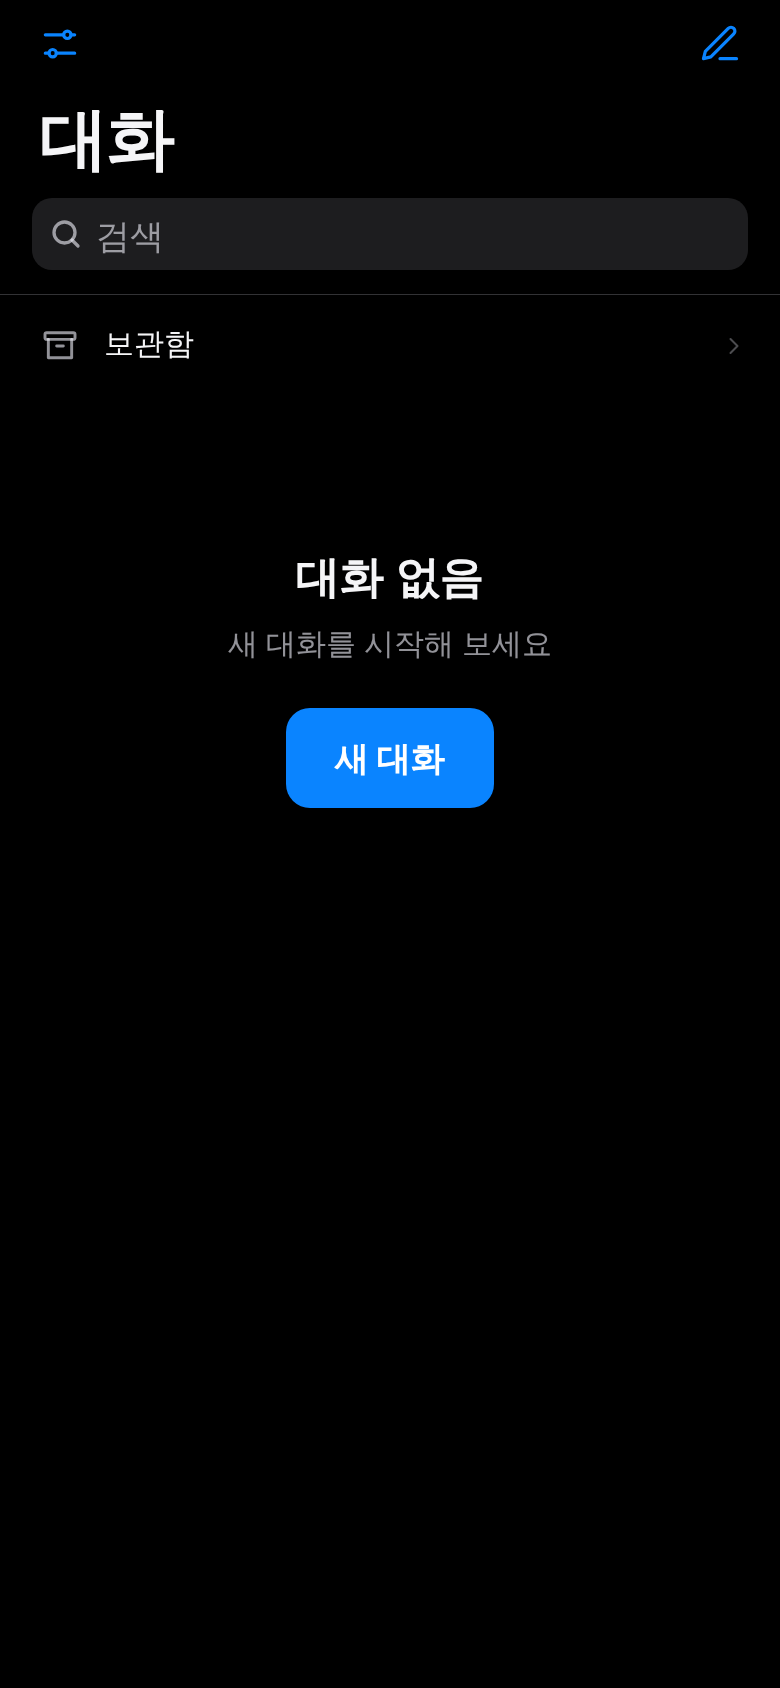
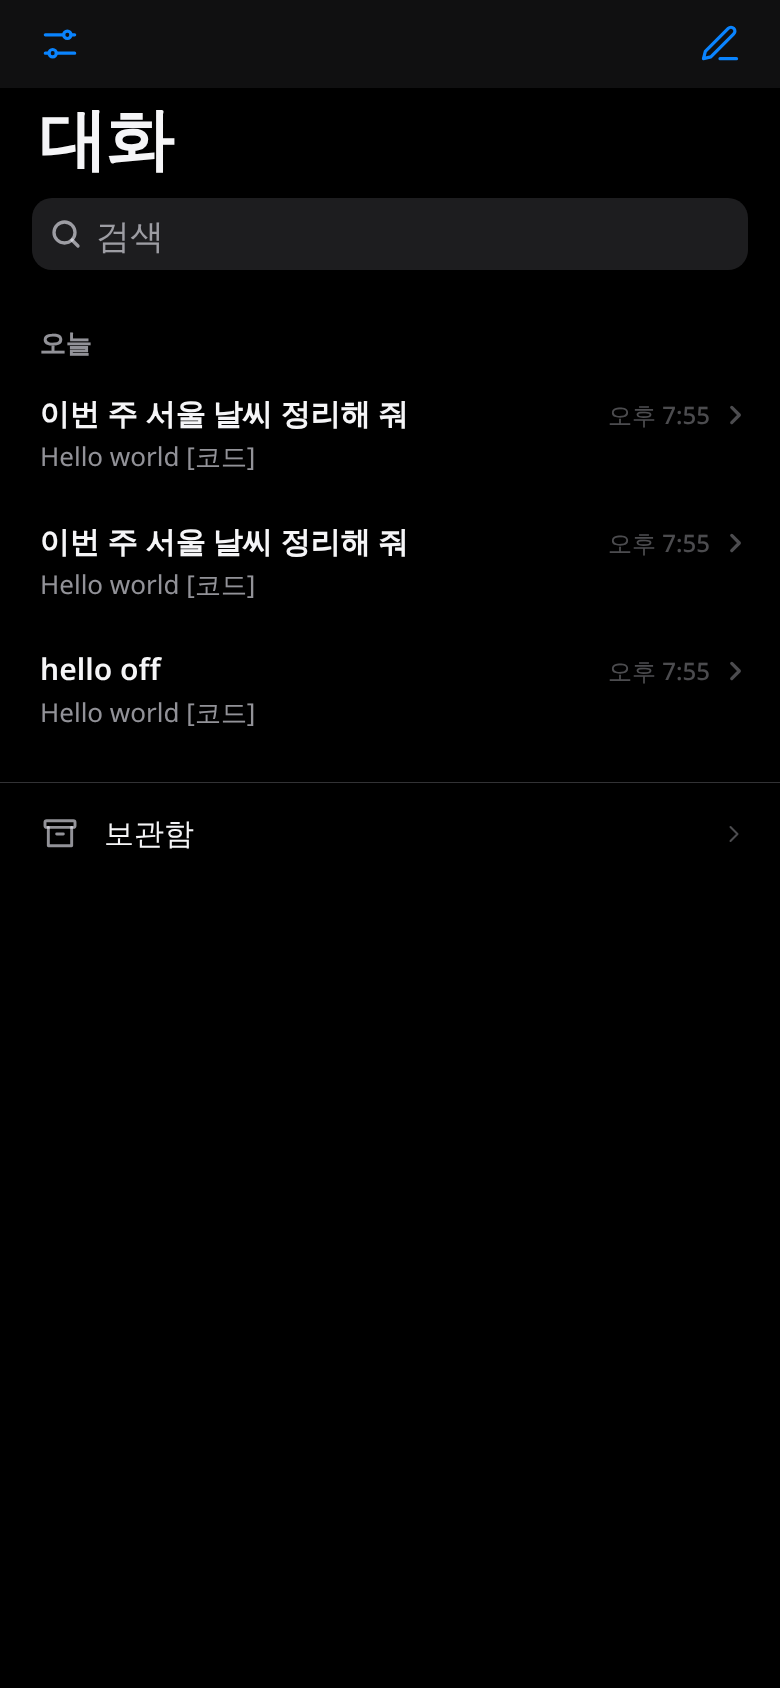
1.4.0: refresh_p1 tests, crisp header metrics, transform-only mig track, review shots

diff --git a/styles.css b/styles.css
@@ -511,7 +511,7 @@ li.skel i+i{width:85%;margin-top:8px;height:12px}
 .mig-note{font-size:12px;color:var(--label-3);margin:8px 0 0}
 .mig-ring{width:48px;height:48px;transform:rotate(-90deg);margin:8px auto;display:block}
 .mig-ring circle{fill:none;stroke-width:4}.mig-ring .trk{stroke:var(--fill)}.mig-ring .val{stroke:var(--accent);stroke-dasharray:138;stroke-dashoffset:138;transition:stroke-dashoffset 300ms var(--ease-out);stroke-linecap:round}
-.mig-track{height:3px;border-radius:2px;background:var(--fill);overflow:hidden;margin:4px 0 12px}.mig-track i{display:block;height:100%;width:0;background:var(--accent);transition:width 300ms}
+.mig-track{height:3px;border-radius:2px;background:var(--fill);overflow:hidden;margin:4px 0 12px}.mig-track i{display:block;height:100%;width:100%;transform:scaleX(0);transform-origin:left;background:var(--accent);transition:transform 300ms var(--ease-standard)}
 .mig-fails{list-style:none;padding:0;margin:8px 0;text-align:left}.mig-fails li{padding:6px 0;font-size:15px}.mig-fails small{display:block;font-size:13px;color:var(--label-2)}
 .ctx-title{padding:12px 16px;font-size:13px;color:var(--label-2);text-align:center}
 #titleWrap{cursor:pointer}
@@ -770,8 +770,8 @@ body{word-break:keep-all}
 @media (prefers-color-scheme:light){.codeblock{background:var(--code-bg)}}
 .actions .icon,.actions button{color:var(--label-3)}
 /* navigation: headline + caption subtitle */
-#title{font:var(--t-headline);letter-spacing:-.2px}
-#modelName{font:var(--t-caption);letter-spacing:.2px;color:var(--label-3)}
+#title{font-size:17px;line-height:22px;letter-spacing:-.2px}
+#modelName{font-size:12px;line-height:14px;font-weight:500;letter-spacing:.2px;margin-top:0}
 #topbar,.navbar{box-shadow:none}
 #topbar::after,.navbar::after{background:var(--hair-strong)}
 .large-title{font:var(--t-large);letter-spacing:-.4px}

diff --git a/tests/refresh_p1.py b/tests/refresh_p1.py
@@ -1,0 +1,56 @@
+# 1.4.0 P1 visual refresh (design a1975717 REFRESH-SPEC §1)
+import os, re
+from playwright.sync_api import sync_playwright
+B = 'http://127.0.0.1:' + os.environ.get('EVE_PORT', '8765')
+R = []
+def check(name, ok, extra=''): R.append(bool(ok)); print(('PASS' if ok else 'FAIL'), name, extra)
+css = open(os.path.join(os.path.dirname(__file__), '..', 'styles.css')).read()
+check('no transition on layout/paint props (box-shadow, filter, radius, height…)', not re.search(r'transition:[^;}]*\b(box-shadow|filter|backdrop-filter|border-radius|height|width|padding|margin)\b', css))
+check('no transition:all', not re.search(r'transition:\s*all', css))
+errs = []
+with sync_playwright() as p:
+    b = p.chromium.launch()
+    for scheme in ['dark', 'light']:
+        ctx = b.new_context(viewport={'width': 390, 'height': 844}, color_scheme=scheme); pg = ctx.new_page(); pg.on('pageerror', lambda e: errs.append(str(e)))
+        pg.add_init_script("localStorage.setItem('eve.mem.introSeen','1');localStorage.setItem('llmchat.settings',JSON.stringify({base:'',model:'mlx-community/Qwen3-30B-A3B-4bit'}))")
+        pg.goto(B + '/ui/#/'); pg.wait_for_timeout(1200); pg.click('#newChat'); pg.wait_for_timeout(800)
+        if scheme == 'dark':
+            check('version 1.4.0', pg.evaluate('__app.version') == '1.4.0')
+            t = pg.evaluate("""(()=>{const r=getComputedStyle(document.documentElement),g=n=>r.getPropertyValue(n).trim();
+              return [g('--r-xs'),g('--r-sm'),g('--r-md'),g('--r-lg'),g('--r-xl'),g('--layer-1'),g('--layer-2'),g('--hair'),g('--hair-strong'),g('--s1'),g('--s2')]})()""")
+            check('radii 6/10/16/20/26 + two layers + hairlines + 4/8 spacing', t[:5] == ['6px','10px','16px','20px','26px'] and t[5].upper() == '#1C1C1E' and t[6].upper() == '#2C2C2E' and t[7] and t[8] and t[9:] == ['4px','8px'], t)
+        e = pg.evaluate("""(()=>{const q=s=>document.querySelector(s),cs=(s,p)=>getComputedStyle(q(s),p);
+          return {h1:q('.empty h1')?.textContent, sub:q('.empty>small')?.textContent, tile:!!q('.empty .mark-tile .mark'), tileShadow:cs('.empty .mark-tile').boxShadow,
+            nav:q('#modelName').textContent, glow:cs('#messages','::before').backgroundImage, chipIc:cs('.chip .chip-ic').color, chipShadow:cs('.chip').boxShadow,
+            chipBorder:cs('.chip').borderTopWidth}})()""")
+        check(f'[{scheme}] empty: mark tile, 무엇을 도와드릴까요?, 로컬 · 비공개', e['tile'] and e['h1'] == '무엇을 도와드릴까요?' and e['sub'] == '로컬 · 비공개', e)
+        check(f'[{scheme}] no model name in nav subtitle or empty state', e['nav'] == '로컬 · 비공개' and 'Qwen' not in pg.inner_text('#chatView'), e['nav'])
+        if scheme == 'dark':
+            check('emerald glow (dark) + tile glow', 'radial-gradient' in e['glow'] and 'rgba(0, 210, 190' in e['glow'] and 'rgba(0, 210, 190' in e['tileShadow'], e['glow'])
+            check('chip icons emerald (Eve only)', e['chipIc'] == 'rgb(0, 210, 190)', e['chipIc'])
+        check(f'[{scheme}] chips: 0.5px inset hairline, no border', 'inset' in e['chipShadow'] and '0.5px' in e['chipShadow'] and e['chipBorder'] == '0px', e['chipShadow'])
+        c = pg.evaluate("""(()=>{const f=document.querySelector('.field'),i=document.getElementById('input'),s=document.getElementById('sendBtn');i.focus();
+          const fc=getComputedStyle(f),ic=getComputedStyle(i),a=getComputedStyle(f,'::after');
+          return {radius:fc.borderTopLeftRadius,shadow:fc.boxShadow,outline:ic.outlineStyle,ring:a.boxShadow,send:getComputedStyle(s,'::after').opacity,dis:s.disabled,sw:s.getBoundingClientRect().width,hit:s.getBoundingClientRect().width-2*parseFloat(getComputedStyle(s,'::before').left)}})()""")
+        check(f'[{scheme}] floating capsule composer r26 + hairline + float shadow', c['radius'] == '26px' and 'inset' in c['shadow'] and '24px' in c['shadow'], c)
+        check(f'[{scheme}] no focus ring (no outline, no blue ring)', c['outline'] == 'none' and '10, 132, 255' not in c['ring'] and '0, 122, 255' not in c['ring'], c)
+        check(f'[{scheme}] send not blue when empty', c['dis'] and c['send'] == '0', c)
+        check(f'[{scheme}] send 36px with >=44pt hit area', c['sw'] == 36 and c['hit'] >= 44, c)
+        pg.fill('#input', '안녕하세요'); pg.wait_for_timeout(300)
+        s2 = pg.evaluate("(()=>{const s=document.getElementById('sendBtn');return [s.disabled,getComputedStyle(s,'::after').opacity,getComputedStyle(s,'::after').backgroundColor]})()")
+        check(f'[{scheme}] send blue only with input', s2[0] is False and s2[1] == '1' and s2[2] in ('rgb(10, 132, 255)', 'rgb(0, 122, 255)'), s2)
+        pg.click('#sendBtn'); pg.wait_for_timeout(3000)
+        m = pg.evaluate("""(()=>{const a=getComputedStyle(document.querySelector('.msg.assistant .bubble')),u=getComputedStyle(document.querySelector('.msg.user .bubble'));
+          return {af:a.fontSize,al:a.lineHeight,uf:u.fontSize,ul:u.lineHeight,ur:[u.borderTopLeftRadius,u.borderBottomRightRadius],ubg:u.backgroundColor}})()""")
+        check(f'[{scheme}] answers 16/24, bubbles 16/22, bubble radius 20 with 6 tail', m['af'] == '16px' and m['al'] == '24px' and m['uf'] == '16px' and m['ul'] == '22px' and m['ur'] == ['20px', '6px'], m)
+        hd = pg.evaluate("[...document.querySelectorAll('.navbar,#topbar')].map(n=>getComputedStyle(n).backdropFilter||'none')")
+        check(f'[{scheme}] headers keep 1.3.2 (no backdrop-filter)', all(x == 'none' for x in hd), hd)
+        tt = pg.evaluate("[...document.querySelectorAll('#chatView .navbar button,#chatView .navbar .icon,#webBtn')].filter(e=>e.offsetParent).map(e=>{const r=e.getBoundingClientRect(),b=getComputedStyle(e,'::before');const ex=b.content!=='none'&&b.position==='absolute'?-2*parseFloat(b.left||0):0;return [e.id||e.className,Math.round(r.width+ex),Math.round(r.height+ex)]})")
+        check(f'[{scheme}] tap targets >= 44', all(w >= 44 and h >= 44 for _, w, h in tt), tt)
+        if scheme == 'dark':
+            pg.evaluate("document.querySelector('#openSettings,#settingsBtn')?.click()"); pg.wait_for_timeout(800)
+            check('model name lives in Settings > 정보', 'Qwen3-30B-A3B-4bit' in (pg.text_content('#sModelInfo') or ''), pg.text_content('#sModelInfo'))
+        ctx.close()
+    check('no page errors', not errs, errs)
+    b.close()
+print(f'{sum(R)}/{len(R)} passed'); raise SystemExit(0 if all(R) else 1)
